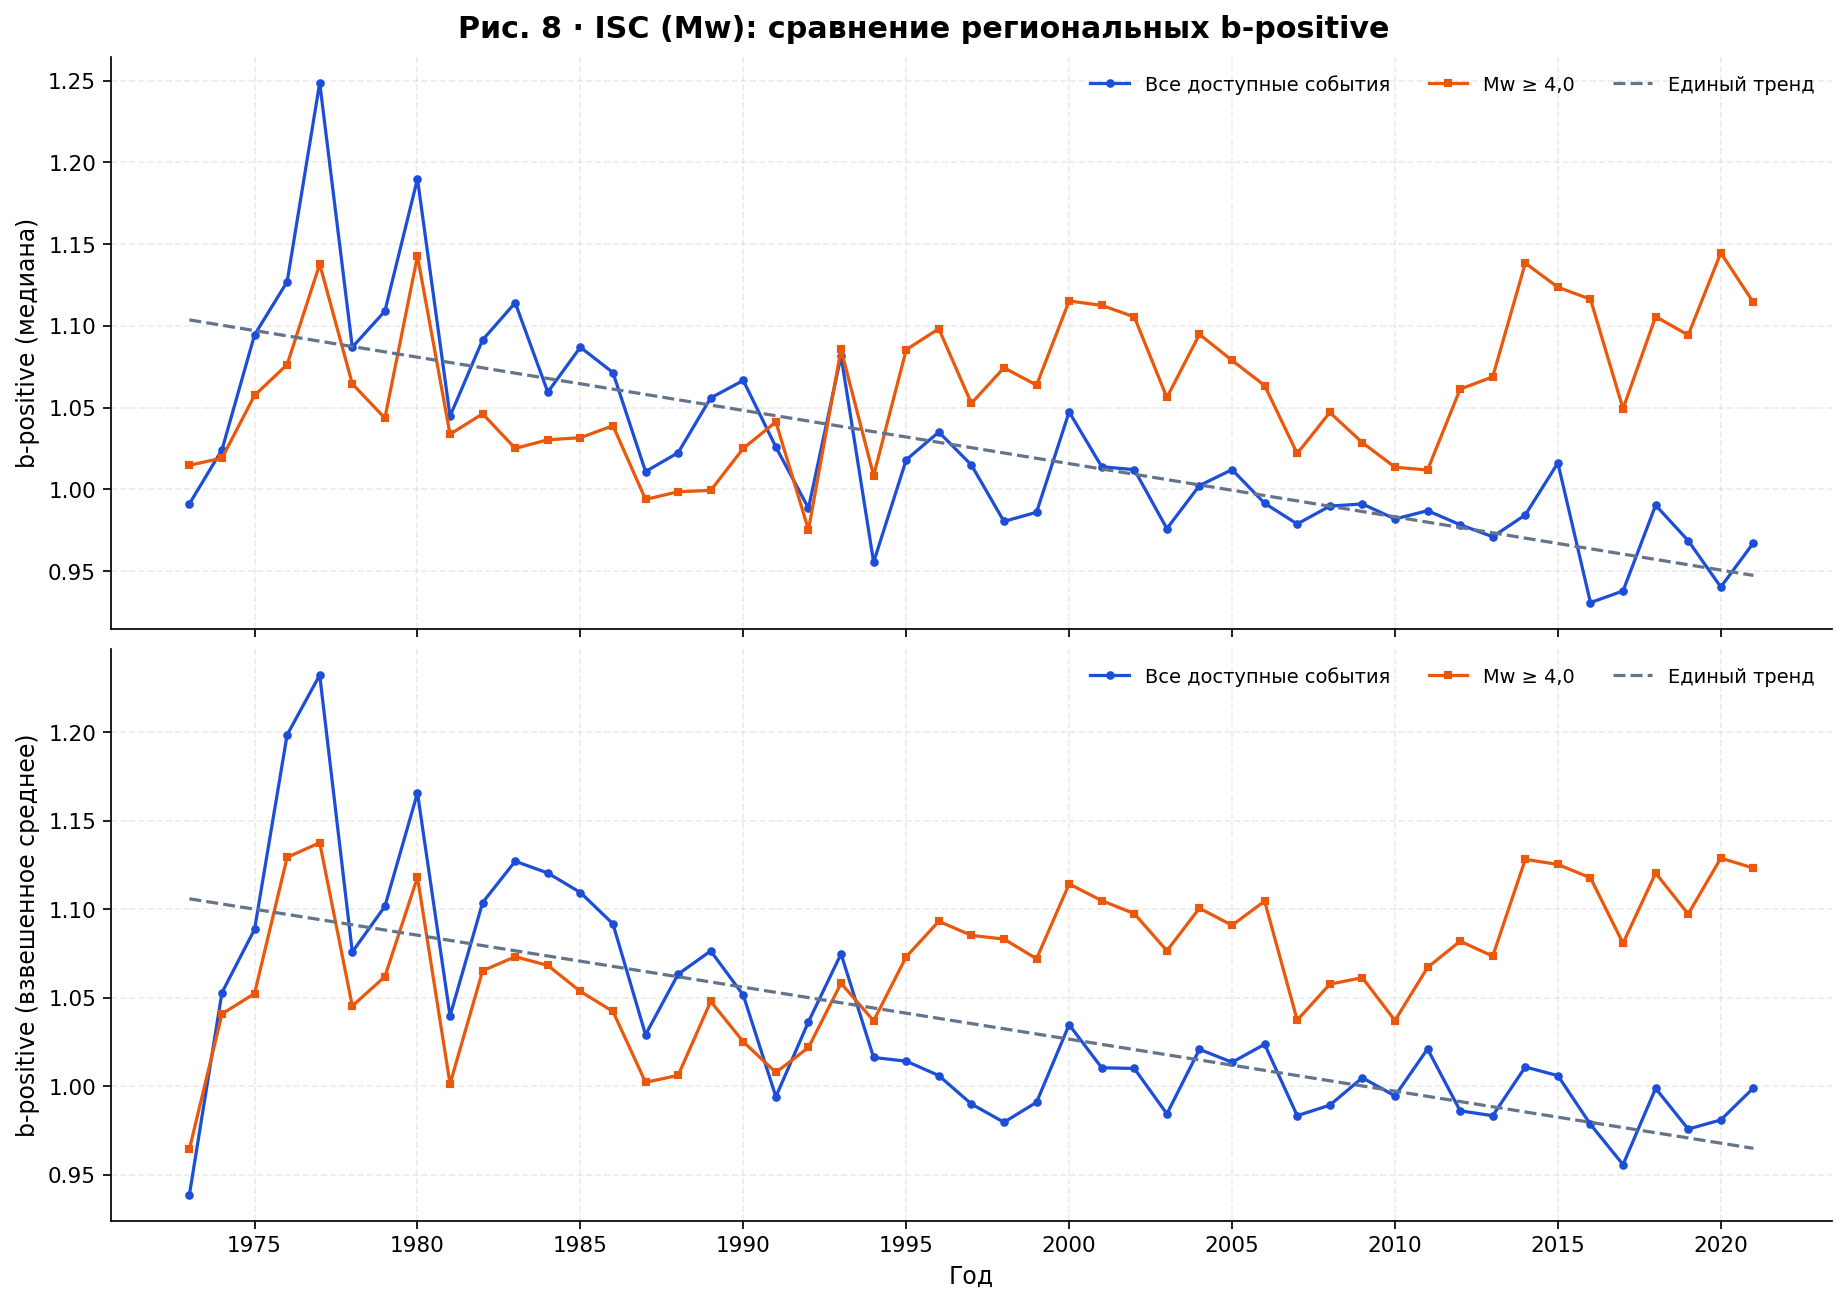
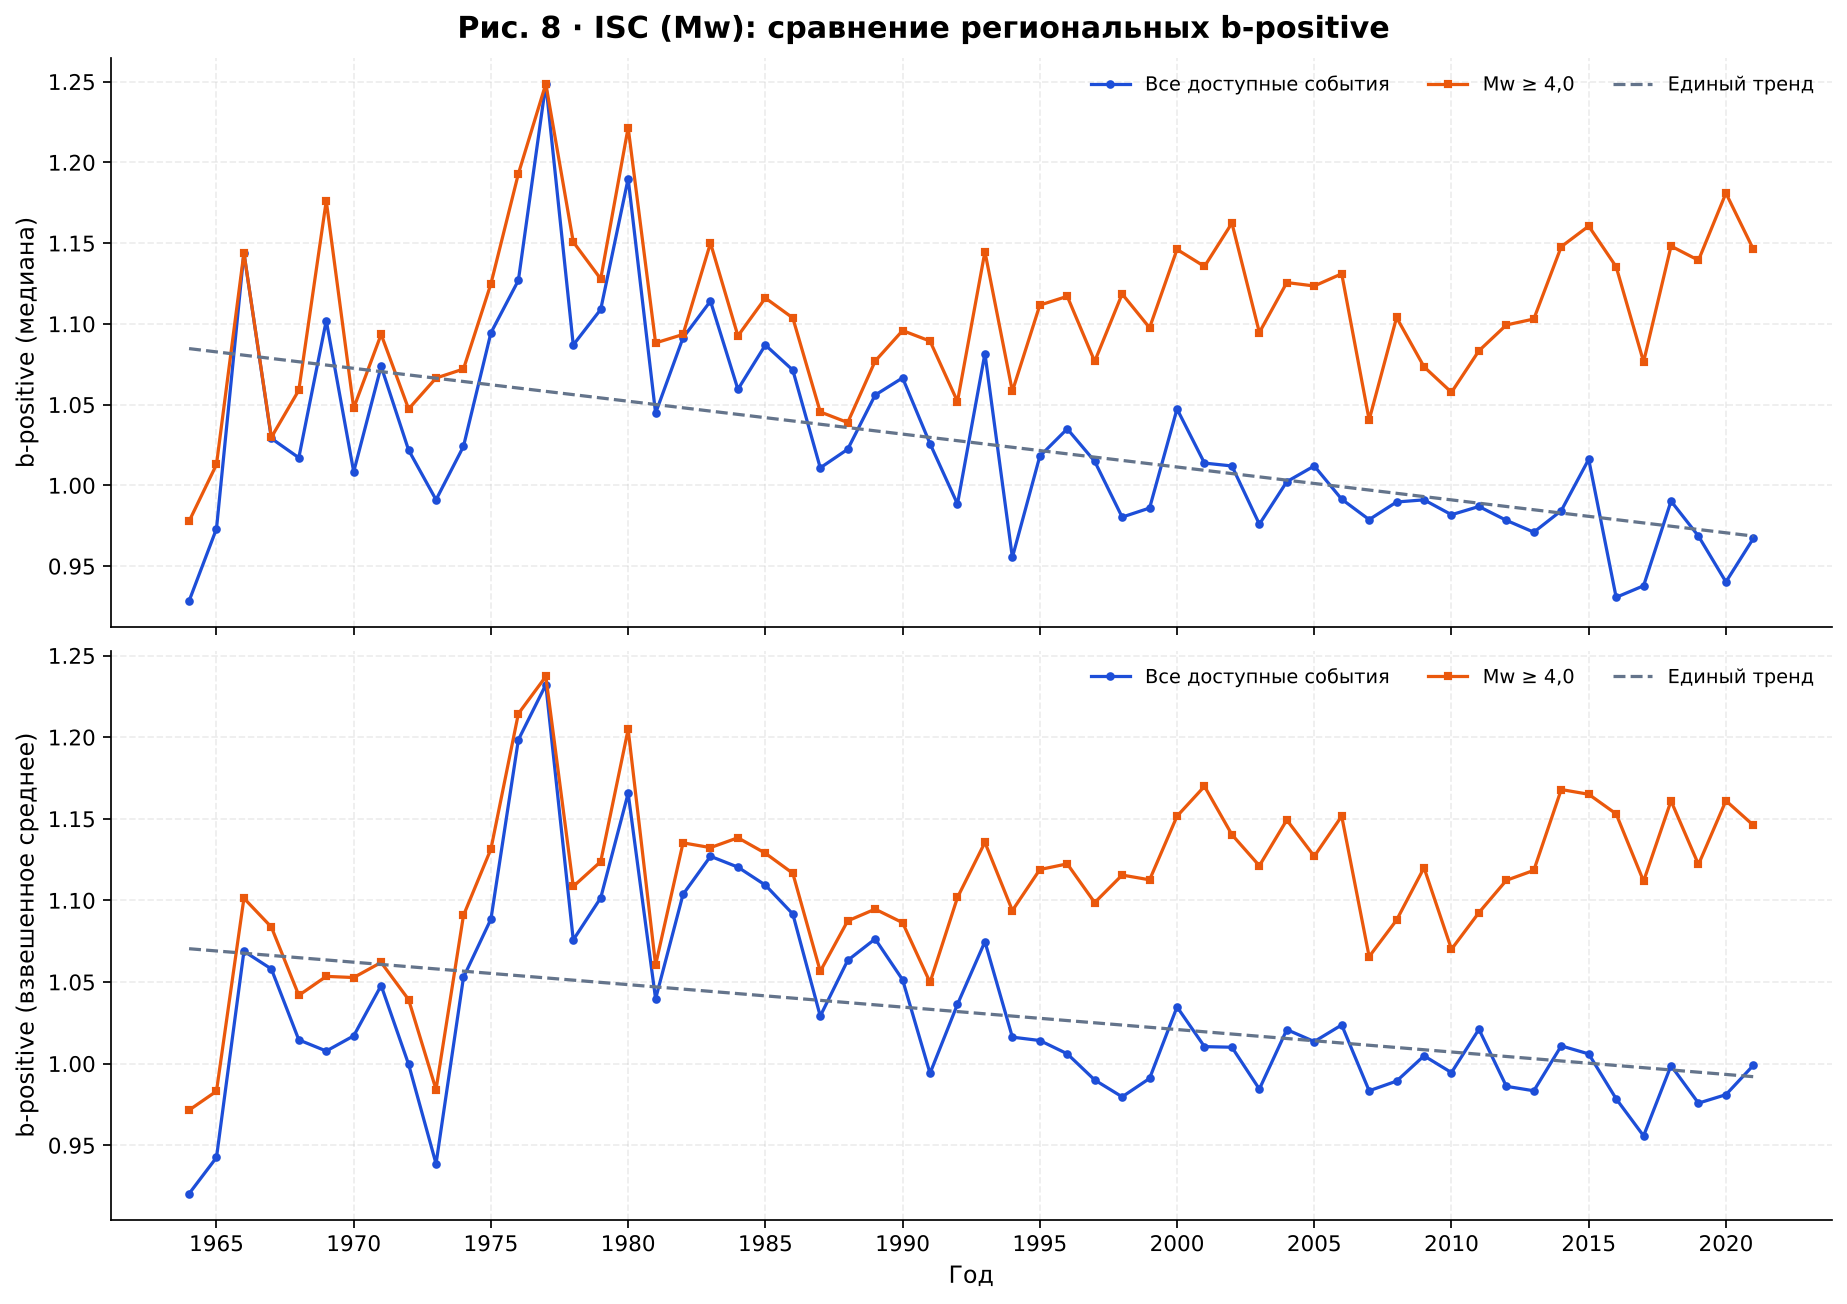
Обновлены расчёты b-positive для ISC и глобальные supF-тесты

diff --git a/scripts/isc_bpositive_m40.py b/scripts/isc_bpositive_m40.py
@@ -1,0 +1,56 @@
+#!/usr/bin/env python3
+"""Пересчёт агрегированного ряда b-positive для ISC (Mw >= 4.0), 1964–2021.
+
+Использует те же правила, что и остальные варианты: все зоны Flinn–Engdahl,
+не менее 20 событий в паре (регион, год), порог положительных разностей 0.2,
+не менее 15 отобранных разностей. Обновляет столбцы median_40, weighted_40,
+n_regions_40, n_pos_used_40 в data/bpositive_isc_итоги.csv.
+
+Запуск из корня репозитория:
+  python scripts/isc_bpositive_m40.py
+"""
+from pathlib import Path
+import sys
+
+import numpy as np
+import pandas as pd
+
+ROOT = Path(__file__).resolve().parents[1]
+sys.path.insert(0, str(ROOT))
+from src.bpositive import aggregate, b_positive  # noqa: E402
+
+FIRST, LAST, REF, THRESHOLD = 1964, 2021, 4.0, 0.2
+
+
+def main() -> None:
+    catalog = pd.read_csv(ROOT / 'data/isc_mw_1960_2021.csv.gz')
+    work = catalog[catalog.year.between(FIRST, LAST) & (catalog.magnitude >= REF)]
+    work = work.sort_values(['fe_large', 'year', 'time'], kind='mergesort')
+    rows = []
+    for (region, year), sample in work.groupby(['fe_large', 'year']):
+        if len(sample) < 20:
+            continue
+        b, n_pos = b_positive(sample.magnitude.to_numpy(), difference_threshold=THRESHOLD)
+        if np.isfinite(b):
+            rows.append({'region': region, 'year': year, 'b_positive': b,
+                         'n_pos': n_pos, 'n_events': len(sample)})
+    regional = pd.DataFrame(rows)
+    agg = aggregate(regional).set_index('year')
+    n_pos = regional.groupby('year').n_pos.sum()
+
+    path = ROOT / 'data/bpositive_isc_итоги.csv'
+    table = pd.read_csv(path).set_index('year')
+    table['median_40'] = agg['median']
+    table['weighted_40'] = agg['weighted']
+    table['n_regions_40'] = agg['n_regions'].astype('Int64')
+    table['n_pos_used_40'] = n_pos.astype('Int64')
+    # Стандартные ошибки этого варианта прежним расчётом не воспроизводятся;
+    # в коде они не используются, поэтому оставлены пустыми.
+    table['se_median_40'] = np.nan
+    table['se_weighted_40'] = np.nan
+    table.reset_index().to_csv(path, index=False, float_format='%.10g')
+    print(f'Обновлено {path.name}: {len(agg)} лет, {FIRST}–{LAST}')
+
+
+if __name__ == '__main__':
+    main()

diff --git a/scripts/aggregated_supf.py b/scripts/aggregated_supf.py
@@ -1,0 +1,47 @@
+#!/usr/bin/env python3
+"""supF-тесты для агрегированных рядов b-positive (NEIC и ISC), как в статье.
+
+Схема бутстрепа та же, что для ряда RFM: случайные блоки со средней длиной
+3 года, 19999 повторов. Для NEIC медиана анализируется невзвешенной
+регрессией, взвешенное среднее — с весами 1/se²; для ISC оба ряда —
+невзвешенной регрессией. Результат: results/aggregated_supf.csv.
+
+Запуск из корня репозитория:
+  python scripts/aggregated_supf.py
+"""
+from pathlib import Path
+import sys
+
+import pandas as pd
+
+ROOT = Path(__file__).resolve().parents[1]
+sys.path.insert(0, str(ROOT))
+from src.statistics import supf_wild_block  # noqa: E402
+
+RUNS = (
+    ('NEIC', 'bpositive_neic_итоги.csv', ('35', '40', '45'), {'median': False, 'weighted': True}),
+    ('ISC', 'bpositive_isc_итоги.csv', ('all', '40'), {'median': False, 'weighted': False}),
+)
+
+
+def main() -> None:
+    rows = []
+    for catalog, name, suffixes, weighting in RUNS:
+        table = pd.read_csv(ROOT / 'data' / name)
+        for suffix in suffixes:
+            for series, weighted in weighting.items():
+                column = f'{series}_{suffix}'
+                data = table[['year', column, f'se_{column}']].dropna(subset=[column])
+                se = data[f'se_{column}'].to_numpy() if weighted else None
+                r = supf_wild_block(data.year, data[column], se, weighted=weighted)
+                rows.append({'catalog': catalog, 'threshold': suffix, 'series': series,
+                             'weighted_regression': weighted, 'break_year': r['break_year'],
+                             'supF': round(r['max_f'], 3), 'p': round(r['p'], 4),
+                             'critical_95': round(r['critical'], 3), 'n_years': len(data)})
+    out = pd.DataFrame(rows)
+    out.to_csv(ROOT / 'results/aggregated_supf.csv', index=False)
+    print(out.to_string(index=False))
+
+
+if __name__ == '__main__':
+    main()

diff --git a/src/plots.py b/src/plots.py
@@ -139,7 +139,7 @@ def fig07_neic_weighted(neic):
 
 
 def fig08_isc_bpositive(isc):
-    df=isc.loc[isc.year>=1973].copy()
+    df=isc.sort_values("year").copy()
     fig,axs=plt.subplots(2,1,figsize=(11.8,8.3),layout='constrained',sharex=True)
     fig.suptitle('Рис. 8 · ISC (Mw): сравнение региональных b-positive',fontweight='semibold',fontsize=14)
     for ax,mode,name in zip(axs,('median','weighted'),('Медиана','Взвешенное среднее')):

diff --git a/README.md b/README.md
@@ -220,4 +220,11 @@ Gutenberg_Richter_GitHub/
 
 В обоих вариантах применено усечение диапазона кандидатов на разрыв на 15% с каждого конца ряда, с минимумом 5 наблюдений с каждой стороны.
 
+Агрегированные ряды b-positive (NEIC и ISC) проверяются скриптом
+`scripts/aggregated_supf.py` (та же схема supF, что для RFM: случайные блоки,
+L = 3, 19999 повторов; для медианы NEIC — невзвешенная регрессия, для взвешенного
+среднего NEIC — веса 1/se²; для ISC — невзвешенная). Результат —
+`results/aggregated_supf.csv`. Ряд ISC при Mw ≥ 4.0 (порог разностей 0.2,
+1964–2021 гг.) строится скриптом `scripts/isc_bpositive_m40.py`.
+
 Файлы *.meta.json сохраняют настройки запуска, версии программного окружения и SHA256 исходного CSV.
